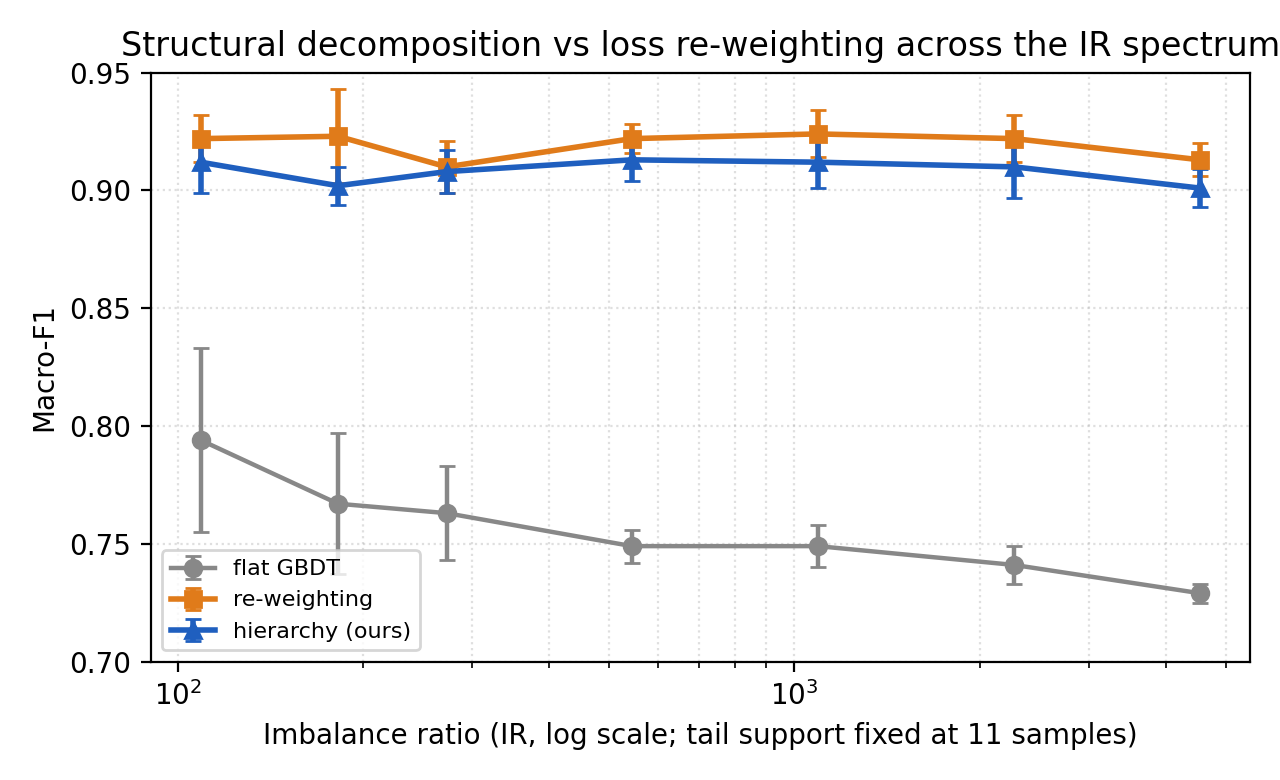
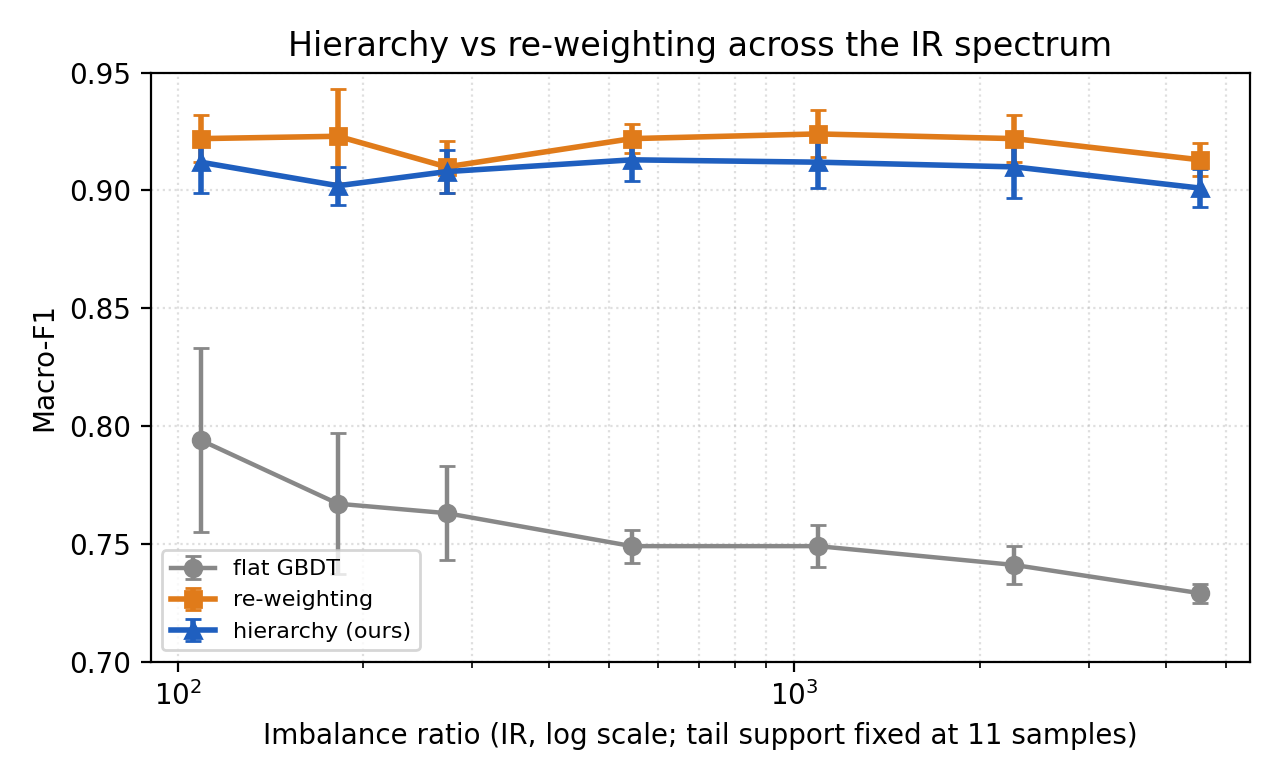
Fix figure layout: avoid label occlusion in framework, IR/tail sweeps, and decision plot

Changed region(s): [[0.0938, 0.0308, 1.0, 0.0923]]

diff --git a/code/framework_figure.py b/code/framework_figure.py
@@ -48,12 +48,12 @@ levels = ["Level 1\nhead\n+ Other", "Level 2", ". . .", "Level $K$\ntail"]
 w, gap, x0 = 16, 2, 3
 for i, t in enumerate(levels):
     xi = x0 + i * (w + gap)
-    box(xi, 16, w, 10, t, fc="white", fs=7.6,
+    box(xi, 17, w, 10, t, fc="white", fs=7.6,
         weight="bold" if i in (0, 3) else "normal")
     if i < len(levels) - 1:
-        arrow(xi + w, 21, xi + w + gap, 21, color=ORANGE, lw=1.1)
-ax.text(41, 14.4, "unresolved samples routed as ``Other'' to the next level",
-        fontsize=6.4, color=ORANGE, ha="center")
+        arrow(xi + w, 22, xi + w + gap, 22, color=ORANGE, lw=1.1)
+ax.text(41, 14.7, 'unresolved samples are routed down as "Other"',
+        fontsize=6.0, color=ORANGE, ha="center")
 
 arrow(60, 38, 60, 34)
 
@@ -64,10 +64,9 @@ arrow(16, 13, 16, 11)
 arrow(55, 13, 55, 11)
 
 # --- edge deployment ---
-box(78, 17, 21, 13, "Edge deployment:\nunder 0.002 ms/sample,\n$<$0.3M parameters\nsubstation gateway",
+box(79, 17, 21, 13, "Edge deployment:\nunder 0.002 ms/sample,\n$<$0.3M parameters\nsubstation gateway",
     fc="#fff2e6", ec=ORANGE, fs=7, tc="black")
-arrow(73, 21.5, 78, 21.5, color=ORANGE, lw=1.2, ls="--")
-ax.text(75.5, 25.5, "deploy", fontsize=6.4, color=ORANGE, ha="center")
+arrow(73, 22, 79, 22, color=ORANGE, lw=1.2, ls="--")
 
 fig.tight_layout(pad=0.3)
 out = os.path.join(os.path.dirname(os.path.dirname(os.path.abspath(__file__))), "figures")

diff --git a/code/decision_figure.py b/code/decision_figure.py
@@ -32,9 +32,13 @@ ax.set_xlabel("Imbalance ratio (IR, log scale)")
 ax.set_ylabel(r"$\Delta$ macro-F1 over flat-GBDT")
 ax.set_title("Structural decomposition vs loss re-weighting by dataset")
 
-for xi, ti, ni, hi, wi in zip(IR, tailmin, name, gain(hier), gain(weight)):
-    ax.annotate("{}  (IR={}, min={})".format(ni, xi, ti), (xi, hi),
-                textcoords="offset points", xytext=(6, 6), fontsize=7.5, color="#1f5fbf")
+ax.set_xlim(15, 20000)
+ax.set_ylim(-0.05, 0.205)
+offs = [(6, -28), (8, 10), (8, 10), (10, 4)]
+for k, (xi, ti, ni, hi) in enumerate(zip(IR, tailmin, name, gain(hier))):
+    ax.annotate("{}\nIR={}, min={}".format(ni, xi, ti), (xi, hi),
+                textcoords="offset points", xytext=offs[k], fontsize=7,
+                color="#1f5fbf", ha="left")
 ax.legend(fontsize=8, loc="upper left")
 ax.grid(True, which="both", ls=":", alpha=0.4)
 fig.tight_layout()

diff --git a/code/tail_figure.py b/code/tail_figure.py
@@ -29,8 +29,8 @@ ax.set_xscale("log")
 ax.set_xlabel("Tail support (rarest-class samples, log scale; IR fixed at ~431)")
 ax.set_ylabel("Macro-F1")
 ax.set_title("Hierarchy vs re-weighting as tail support shrinks")
-ax.text(90, 0.655, "hierarchy\nregion", color="#1f5fbf", ha="center", fontsize=9)
-ax.text(17, 0.548, "re-weighting\nregion", color="#e07b1a", ha="center", fontsize=9)
+ax.text(160, 0.548, "hierarchy\nregion", color="#1f5fbf", ha="center", fontsize=9)
+ax.text(14, 0.635, "re-weighting\nregion", color="#e07b1a", ha="center", fontsize=9)
 ax.set_ylim(0.54, 0.67)
 ax.legend(fontsize=8, loc="upper right")
 ax.grid(True, which="both", ls=":", alpha=0.4)

diff --git a/code/ir_figure.py b/code/ir_figure.py
@@ -26,7 +26,7 @@ ax.errorbar(IR, hier, yerr=hier_s, marker="^", color="#1f5fbf", lw=2, capsize=3,
 ax.set_xscale("log")
 ax.set_xlabel("Imbalance ratio (IR, log scale; tail support fixed at 11 samples)")
 ax.set_ylabel("Macro-F1")
-ax.set_title("Structural decomposition vs loss re-weighting across the IR spectrum")
+ax.set_title("Hierarchy vs re-weighting across the IR spectrum")
 ax.set_ylim(0.70, 0.95)
 ax.legend(fontsize=8, loc="lower left")
 ax.grid(True, which="both", ls=":", alpha=0.4)
